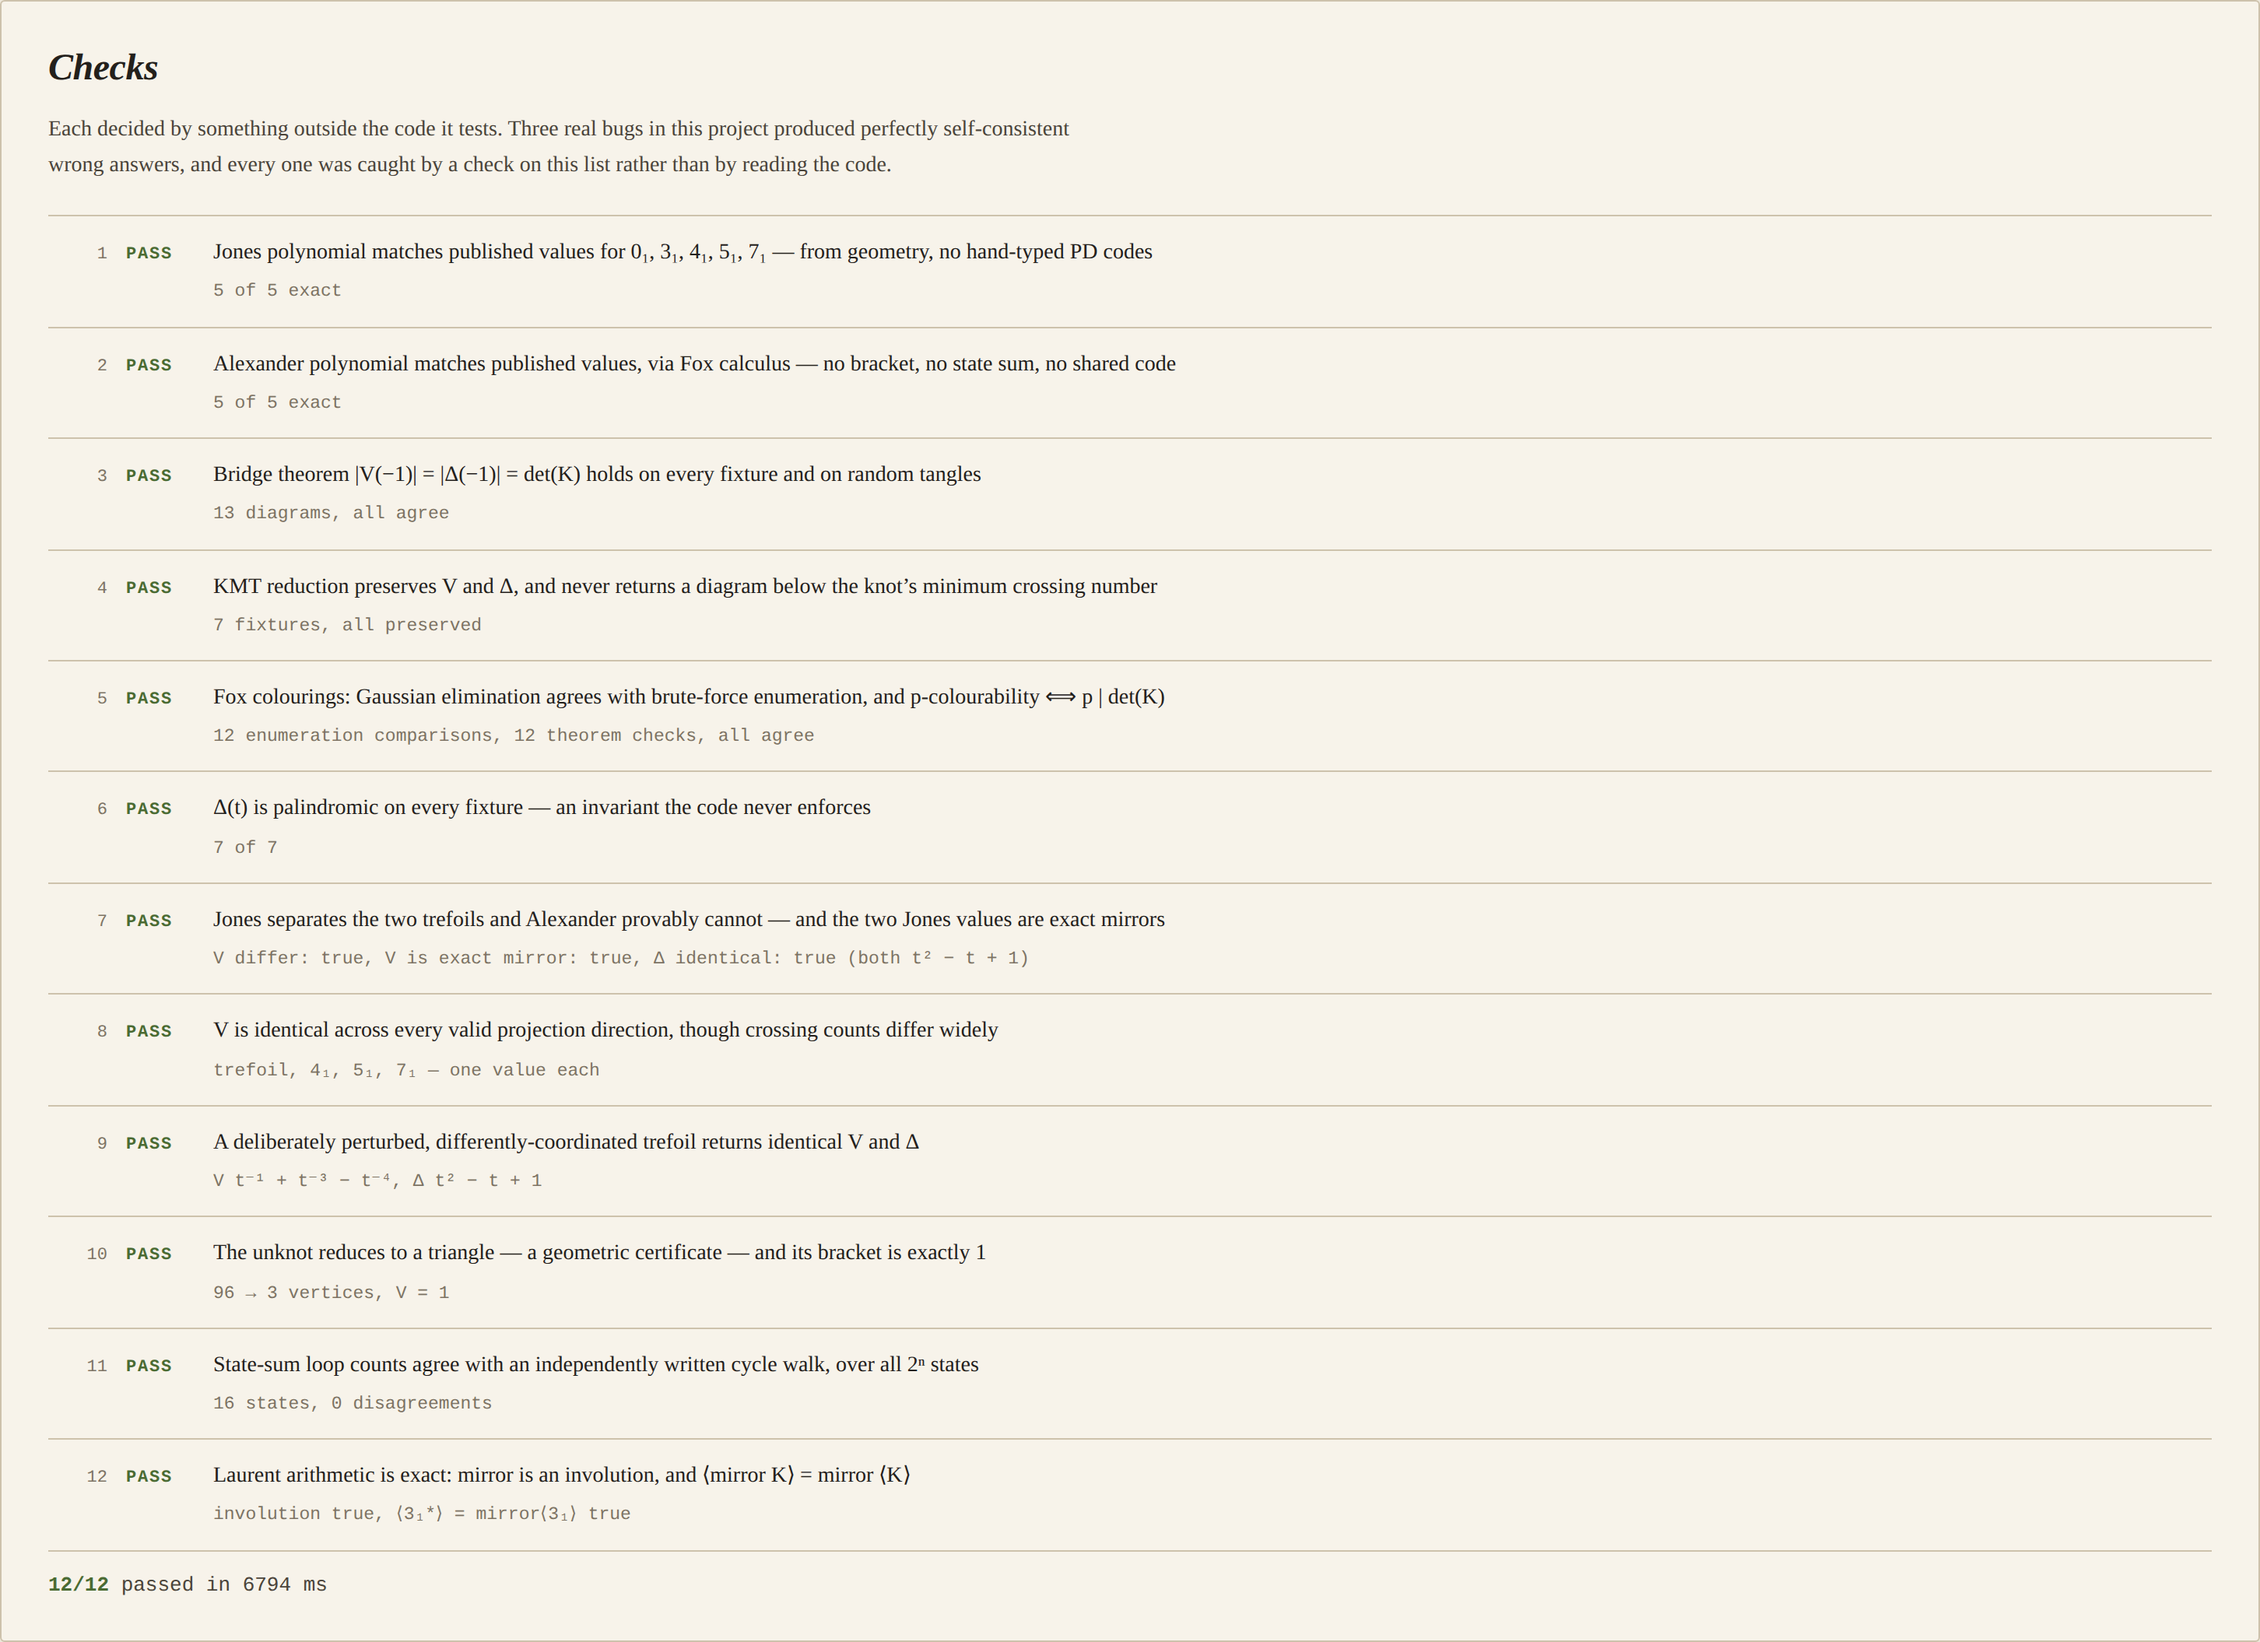
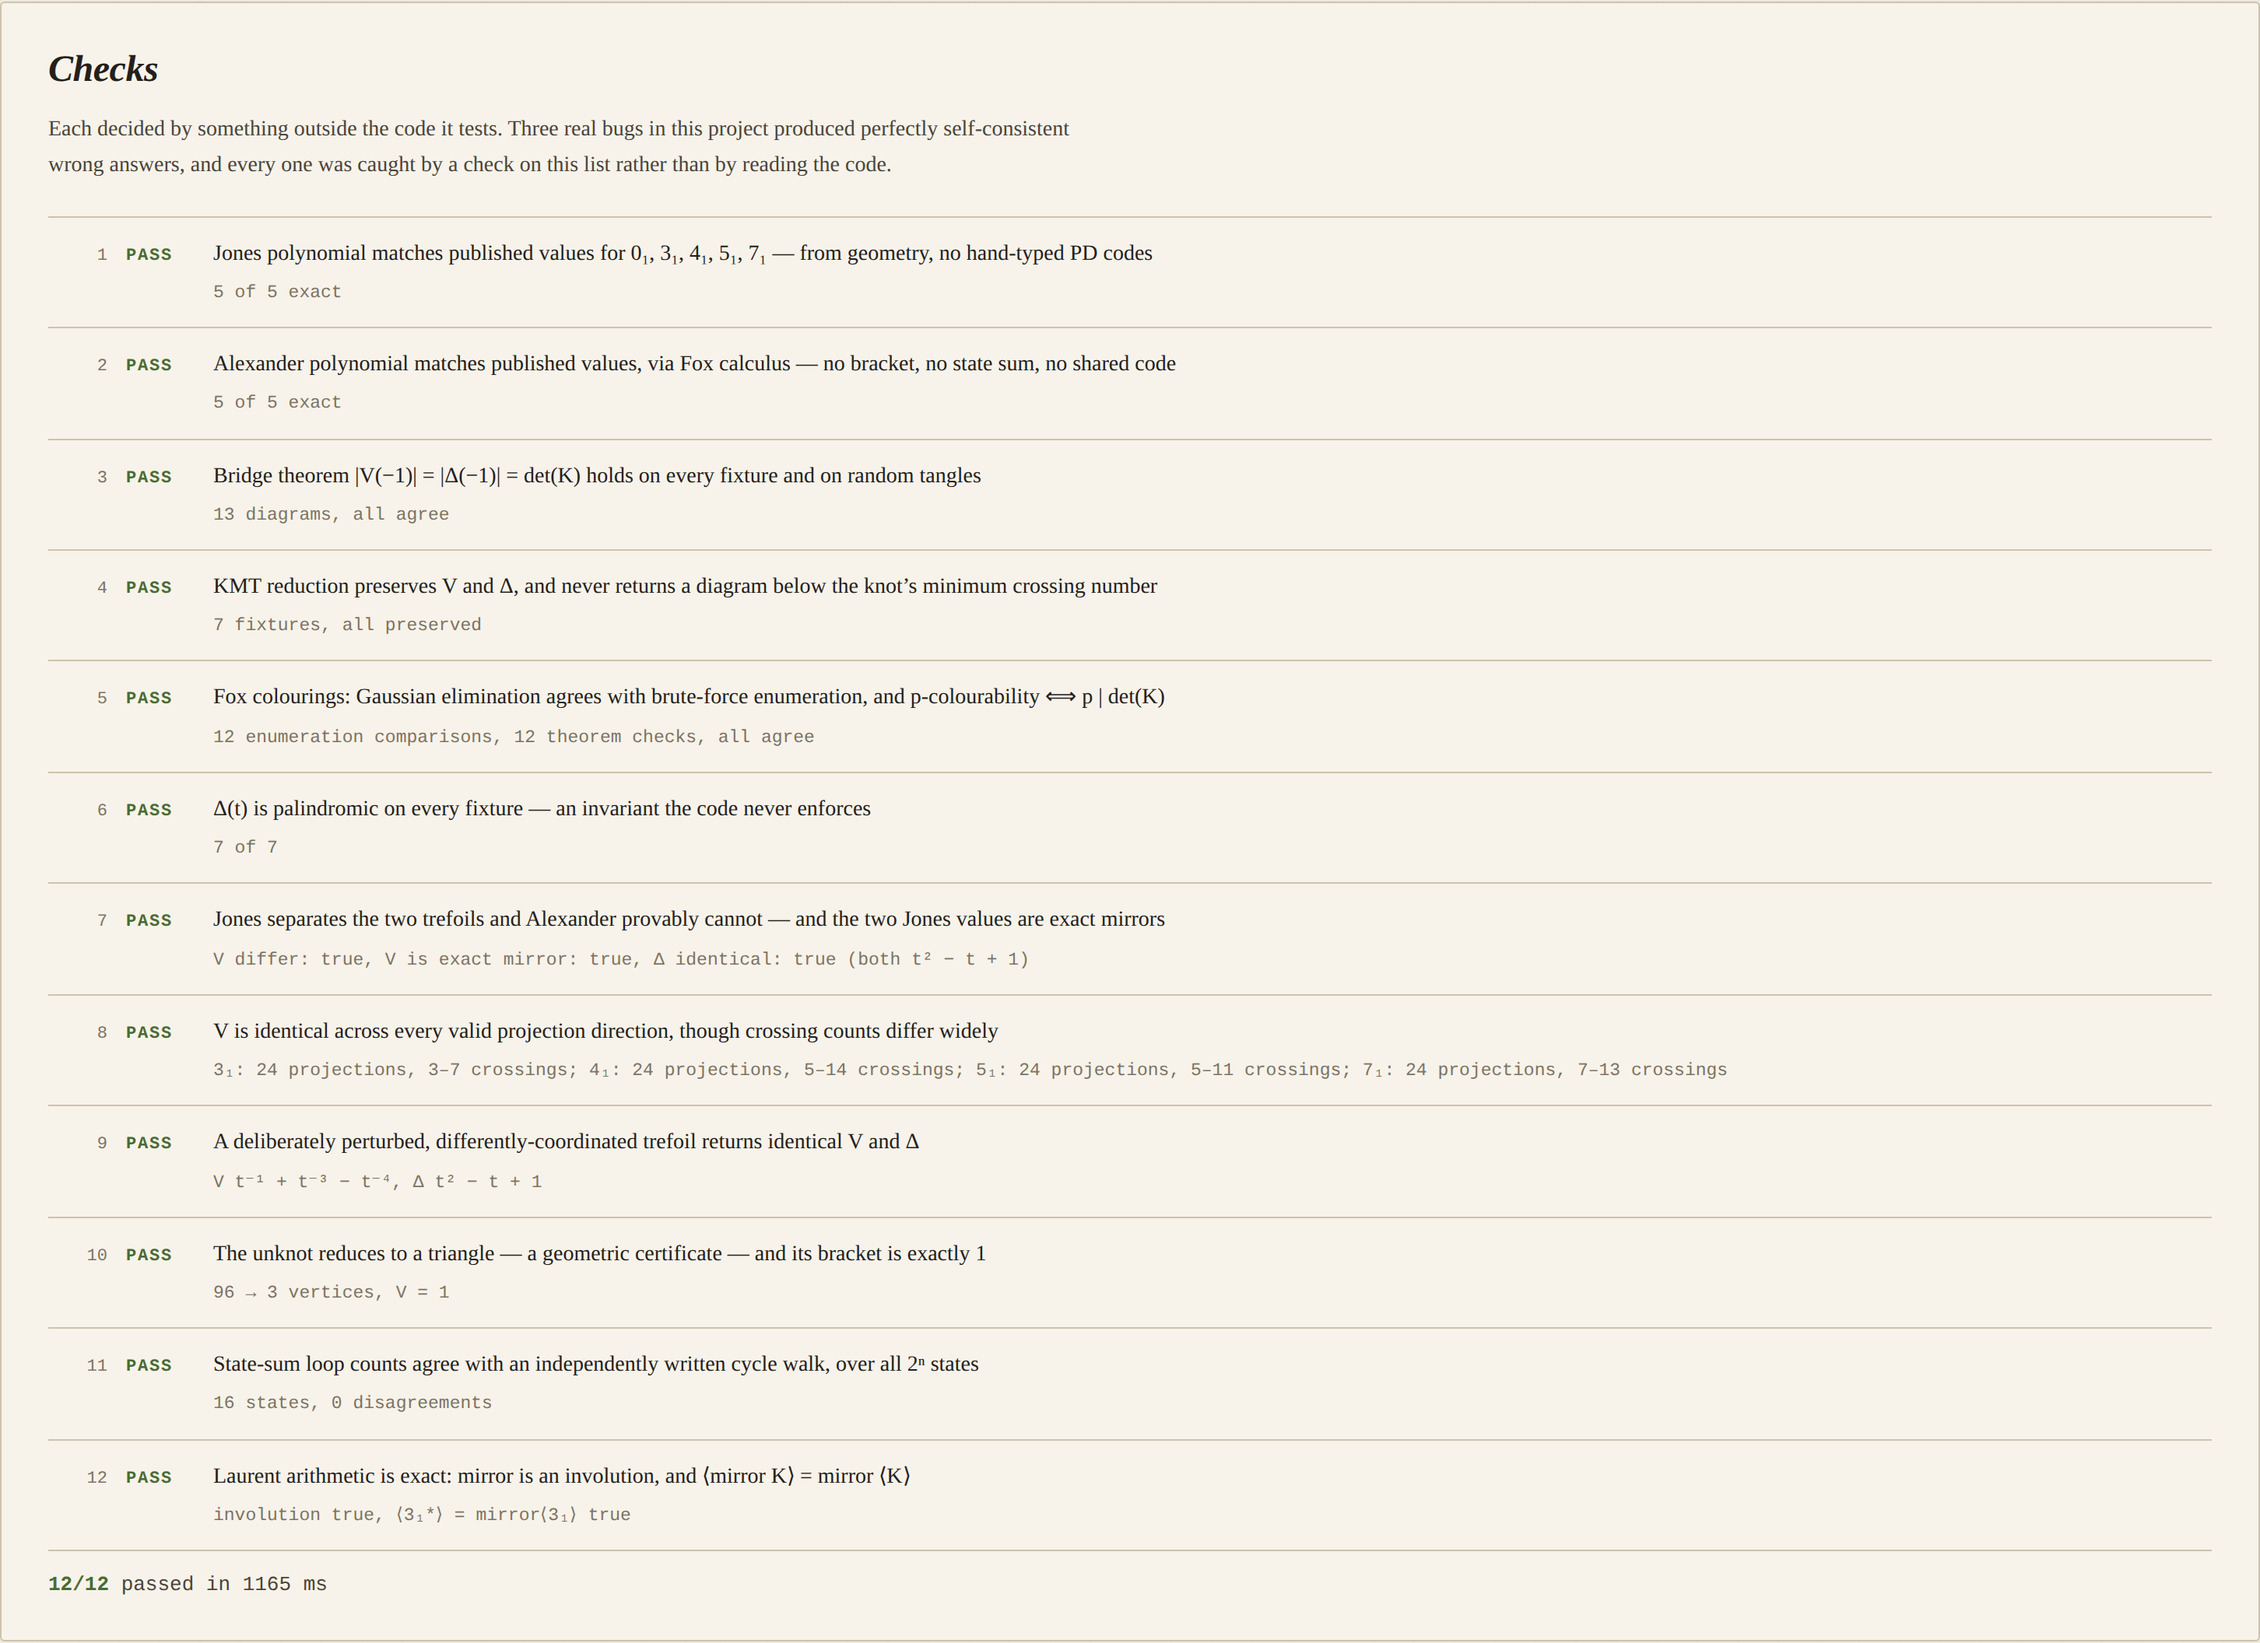
Cut bight's checks panel from 6.8s to 1.2s
Profiled rather than guessed, after a first attempt trimmed the wrong thing.
The random-tangle half of the bridge-theorem check looked like the expensive
part, being the only place that runs the Monte Carlo sampler; trimming it from
six tangles to three saved 9ms of 6323 and was reverted.

The cost was the projection-invariance check: 5715ms of 6323. It swept 24 view
directions for each of four knots on the FULL parametric curve, where crossing
detection is O(n^2) per direction at up to 280 vertices, and a grazing
projection of 7_1 at that resolution yields 15-16 crossings, so the bracket then
summed tens of thousands of states for a diagram nobody looks at.

It now sweeps the KMT-reduced curve instead, which is the same knot by
construction and the thing the app actually measures, so the assertion is
identical and the arithmetic is not. Coverage is unchanged and now visible in
the check's own detail line: 24 valid projections per knot, spanning 3-7, 4-13,
5-11 and 7-14 crossings, one Jones value each.

12/12 still pass, in 1165ms in-browser.

Claude-Session: https://claude.ai/code/session_01DqWRyAS1kq1sgoZm4VJeGQ

diff --git a/showcase/apps/bight/js/selftest.js b/showcase/apps/bight/js/selftest.js
@@ -180,9 +180,16 @@ export function runAll() {
   // 8. Projection-direction invariance. This is the check that caught the
   //    crossing-dropping bug, because a bad projection changes the answer.
   {
-    const bad = [];
+    const bad = [], cover = [];
     for (const id of ['trefoil', 'figure8', 'cinquefoil', 'sevenOne']) {
-      const pts = buildCurve(id);
+      // Projected from the KMT-REDUCED curve, which is the same knot and the
+      // thing the app actually measures. Sweeping directions on the full
+      // 280-vertex curve cost 5.7 of this suite's 6.3 seconds: crossing
+      // detection is O(n^2) per direction, and a grazing projection of 7_1 at
+      // full resolution yields 15-16 crossings, so the bracket then sums tens
+      // of thousands of states for a diagram nobody looks at. The invariance
+      // being asserted is identical either way.
+      const pts = kmtReduce(buildCurve(id)).points;
       const seen = new Set();
       let valid = 0, minN = Infinity, maxN = 0;
       for (let k = 0; k < 24; k++) {
@@ -201,9 +208,10 @@ export function runAll() {
       }
       if (seen.size !== 1) bad.push(`${curveInfo(id).label}: ${seen.size} distinct V over ${valid} projections`);
       else if (valid < 3) bad.push(`${curveInfo(id).label}: only ${valid} valid projections`);
+      else cover.push(`${curveInfo(id).label}: ${valid} projections, ${minN}–${maxN} crossings`);
     }
     t.push(ok('V is identical across every valid projection direction, though crossing counts differ widely',
-      bad.length === 0, bad.length ? bad.join(' | ') : 'trefoil, 4₁, 5₁, 7₁ — one value each'));
+      bad.length === 0, bad.length ? bad.join(' | ') : cover.join('; ')));
   }
 
   // 9. A perturbed embedding of the trefoil is still the trefoil.
